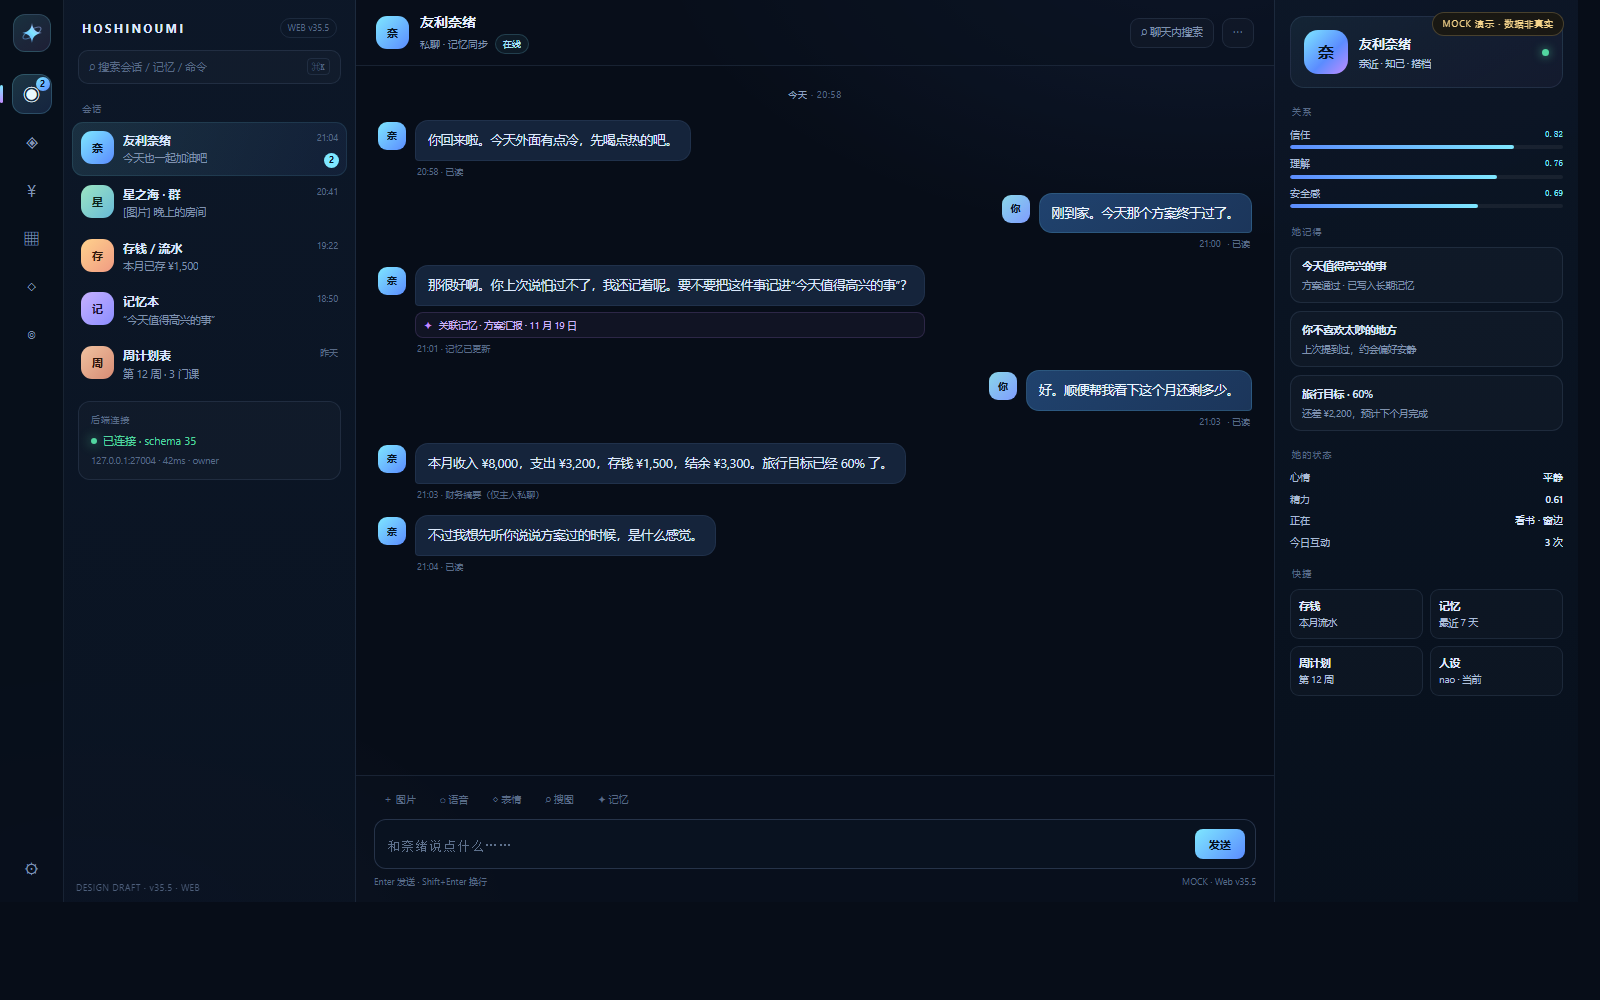
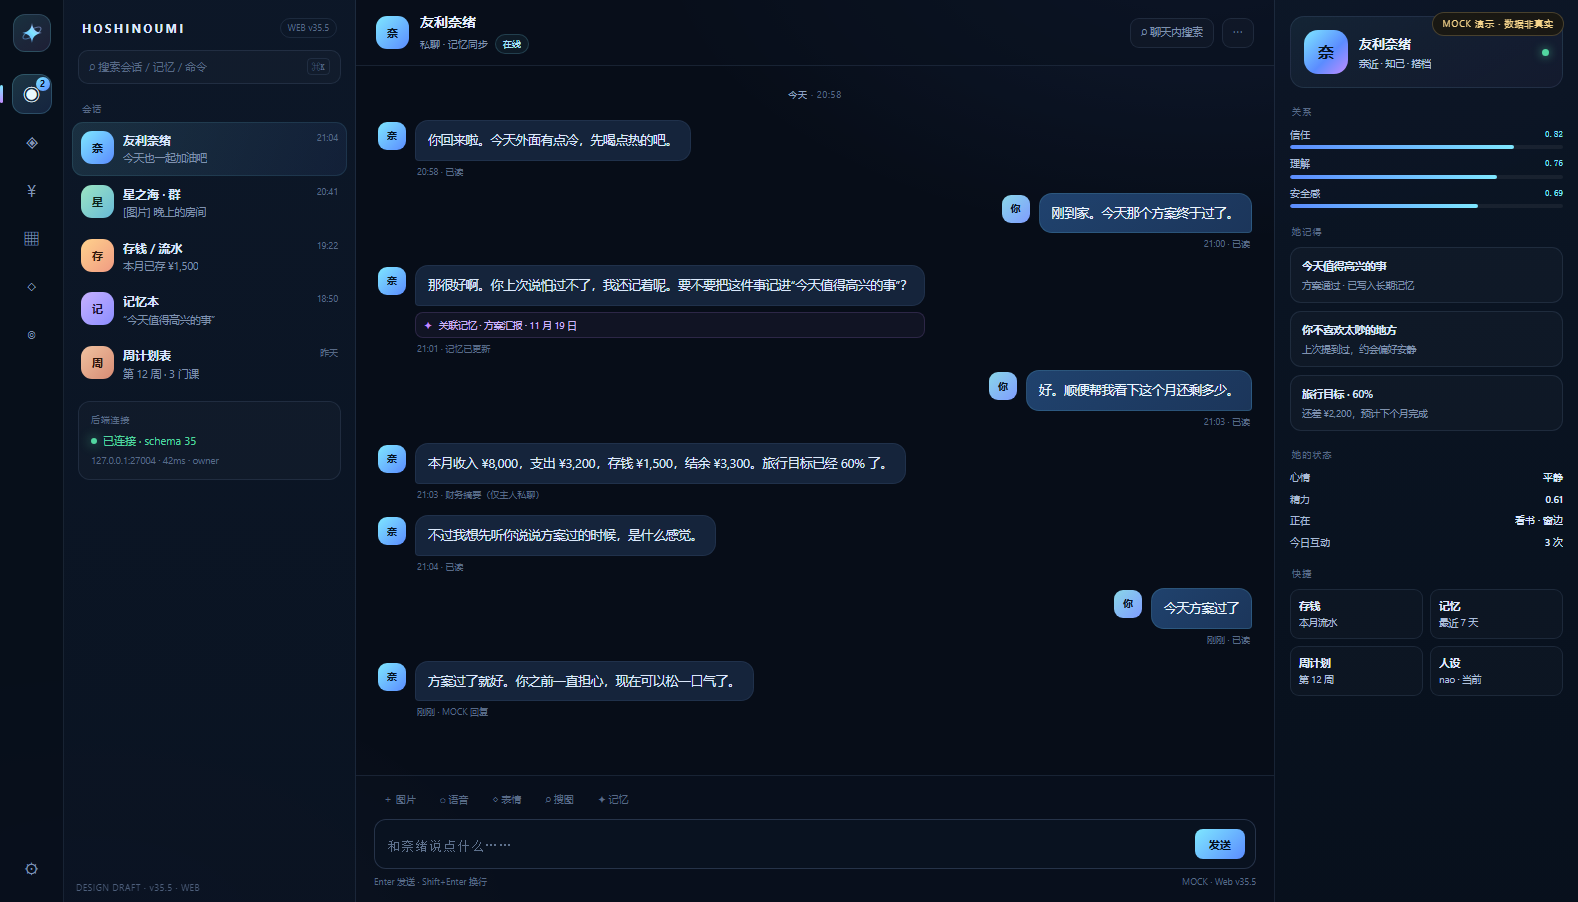
feat(v35.5): Web 演示可交互

diff --git a/docs/design/v35/web/demo.js b/docs/design/v35/web/demo.js
@@ -1,0 +1,177 @@
+// Hoshinoumi Web v35.5 · MOCK 交互演示（无后端）
+(() => {
+  const CHATS = {
+    nao: { name: '友利奈绪', sub: '私聊 · 记忆同步', msgs: [
+      { r: 'bot', t: '你回来啦。今天外面有点冷，先喝点热的吧。', m: '20:58 · 已读' },
+      { r: 'me', t: '刚到家。今天那个方案终于过了。', m: '21:00 · 已读' },
+      { r: 'bot', t: '那很好啊。你上次说怕过不了，我还记着呢。要不要把这件事记进“今天值得高兴的事”？', m: '21:01 · 记忆已更新', mem: '关联记忆 · 方案汇报 · 11 月 19 日' },
+      { r: 'me', t: '好。顺便帮我看下这个月还剩多少。', m: '21:03 · 已读' },
+      { r: 'bot', t: '本月收入 ¥8,000，支出 ¥3,200，存钱 ¥1,500，结余 ¥3,300。旅行目标已经 60% 了。', m: '21:03 · 财务摘要（仅主人私聊）' },
+      { r: 'bot', t: '不过我想先听你说说方案过的时候，是什么感觉。', m: '21:04 · 已读' }
+    ] },
+    group: { name: '星之海 · 群', sub: '群聊 · 4 人', msgs: [
+      { r: 'bot', t: '[图片] 晚上的房间。窗边那盏灯还是没修。', m: '20:41 · 群聊' },
+      { r: 'me', t: '明天我去买灯泡。', m: '20:43 · 已读' },
+      { r: 'bot', t: '那我给你留门。别又忘了。', m: '20:44 · 已读' }
+    ] },
+    savings: { name: '存钱 / 流水', sub: '财务 · 仅主人私聊', msgs: [
+      { r: 'bot', t: '本月收入 ¥8,000，支出 ¥3,200，存钱 ¥1,500，结余 ¥3,300。旅行目标 60%。', m: '19:22 · 财务摘要' },
+      { r: 'me', t: '旅行目标还差多少？', m: '19:23 · 已读' },
+      { r: 'bot', t: '还差 ¥2,200。按现在的节奏，下个月能完成。', m: '19:23 · 已读' }
+    ] },
+    memory: { name: '记忆本', sub: '记忆 · 最近 7 天', msgs: [
+      { r: 'bot', t: '今天值得高兴的事：方案终于过了。我已经把它写进长期记忆。', m: '18:50 · 记忆已更新' },
+      { r: 'me', t: '还有别的吗？', m: '18:51 · 已读' },
+      { r: 'bot', t: '你不喜欢太吵的地方；最近在看的书是《十日终焉》。', m: '18:51 · 记忆召回' }
+    ] },
+    weekly: { name: '周计划表', sub: '第 12 周 · 3 门课', msgs: [
+      { r: 'bot', t: '第 12 周：周一 高等数学、周三 大学英语、周五 数据结构。', m: '昨天 · 来自后端' },
+      { r: 'me', t: '周五有考试吗？', m: '昨天 · 已读' },
+      { r: 'bot', t: '没有，周五是最后一节课，之后放假。', m: '昨天 · 已读' }
+    ] }
+  };
+
+  const PAGES = {
+    memory: [['记忆本', '最近 7 天 · 4 条'], ['今天值得高兴的事', '方案通过 · 已写入长期记忆'], ['你不喜欢太吵的地方', '偏好安静 · 来自对话'], ['正在读', '《十日终焉》 · 窗边']],
+    savings: [['总余额', '¥3,300.00'], ['本月收入', '¥8,000'], ['本月支出', '¥3,200'], ['旅行目标', '60% · 还差 ¥2,200']],
+    weekly: [['第 12 周', '3 门课'], ['周一 1-2 节', '高等数学 · 教三 201'], ['周三 3-4 节', '大学英语 · 文科楼 104'], ['周五 5-6 节', '数据结构 · 实验楼 302']],
+    persona: [['当前人设', 'nao · 友利奈绪'], ['风格', '口语 · 简短 · 行动回复'], ['文件', 'prompt / life / supplement / state / voice'], ['状态', '只读预览 · 仅 owner']],
+    relation: [['亲密度', '0.62 · 熟'], ['信任', '0.82'], ['理解', '0.76'], ['最近变化', '+0.020 · 聊天']],
+    settings: [['后端地址', 'http://127.0.0.1:27004'], ['连接状态', '已连接 · schema 35'], ['主人 QQ', '822891053'], ['视觉', '深色 · 动画默认关闭']]
+  };
+  const TITLES = { memory: '记忆', savings: '存钱', weekly: '周计划表', persona: '人设', relation: '关系', settings: '设置' };
+
+  // 注入演示用样式
+  const css = document.createElement('style');
+  css.textContent = `
+    .chat-hide{display:none!important}
+    .page-view{display:none;flex:1;min-height:0;overflow:auto;padding:22px 24px}
+    .page-view.on{display:block}
+    .page-head{display:flex;align-items:center;gap:12px;margin-bottom:16px}
+    .page-head h2{font-size:17px;margin:0;font-weight:650}
+    .page-head p{font-size:10.5px;color:var(--muted);margin:3px 0 0}
+    .back{margin-left:auto;font-size:10px;color:var(--cyan);border:1px solid rgba(126,231,255,.2);border-radius:8px;padding:5px 9px;background:none;cursor:pointer}
+    .pgrid{display:grid;grid-template-columns:1fr 1fr;gap:10px}
+    .pcard2{border:1px solid var(--line);border-radius:12px;background:rgba(255,255,255,.022);padding:12px 13px}
+    .pcard2 h3{font-size:11px;margin:0 0 5px;color:#dbe8fb}
+    .pcard2 p{font-size:10px;line-height:1.6;color:var(--muted);margin:0}
+    .toast{position:fixed;left:50%;bottom:26px;transform:translateX(-50%) translateY(12px);opacity:0;pointer-events:none;z-index:30;transition:.2s;background:rgba(13,23,40,.96);border:1px solid rgba(126,231,255,.22);color:#dbe8fb;font-size:10.5px;border-radius:9px;padding:8px 13px;box-shadow:0 10px 30px rgba(0,0,0,.4)}
+    .toast.on{opacity:1;transform:translateX(-50%) translateY(0)}
+    .typing{color:var(--muted);font-size:10px;padding:3px 4px 8px}
+  `;
+  document.head.appendChild(css);
+
+  const esc = v => String(v ?? '').replace(/[&<>"']/g, c => ({ '&': '&amp;', '<': '&lt;', '>': '&gt;', '"': '&quot;', "'": '&#39;' }[c]));
+  const msgs = document.querySelector('.msgs');
+  const main = document.querySelector('.main');
+  const composer = document.querySelector('.composer');
+  const top = document.querySelector('.top');
+  const nameEl = top.querySelector('.nm');
+  const subEl = top.querySelector('.sub');
+
+  const pageView = document.createElement('div');
+  pageView.className = 'page-view';
+  main.appendChild(pageView);
+
+  function toast(msg) {
+    let t = document.querySelector('.toast');
+    if (!t) { t = document.createElement('div'); t.className = 'toast'; document.body.appendChild(t); }
+    t.textContent = msg; t.classList.add('on');
+    clearTimeout(window.__toast); window.__toast = setTimeout(() => t.classList.remove('on'), 1400);
+  }
+
+  function msgHtml(x) {
+    return '<div class="msg ' + (x.r === 'me' ? 'me' : '') + '">' +
+      (x.r === 'me' ? '' : '<div class="avatar">奈</div>') +
+      '<div><div class="bubble">' + esc(x.t) + '</div>' +
+      (x.mem ? '<div class="memchip"><span class="i">✦</span> ' + esc(x.mem) + '</div>' : '') +
+      '<div class="meta">' + esc(x.m) + '</div></div>' +
+      (x.r === 'me' ? '<div class="avatar" style="background:linear-gradient(135deg,#8ad7e8,#7f9cff);color:#071322">你</div>' : '') + '</div>';
+  }
+
+  function showChat() {
+    [top, msgs, composer].forEach(x => x.classList.remove('chat-hide'));
+    pageView.classList.remove('on');
+    document.querySelectorAll('.rnav').forEach(x => x.classList.toggle('on', x.dataset.page === 'chat'));
+  }
+
+  function renderChat(id) {
+    const c = CHATS[id] || CHATS.nao;
+    nameEl.textContent = c.name;
+    subEl.innerHTML = esc(c.sub) + ' <span class="pill">在线</span>';
+    msgs.innerHTML = '<div class="day"><b>今天</b> · 20:58</div>' + c.msgs.map(msgHtml).join('');
+    document.querySelectorAll('.conv').forEach(x => x.classList.toggle('on', x.dataset.conv === id));
+    showChat();
+    msgs.scrollTop = msgs.scrollHeight;
+  }
+
+  const convIds = ['nao', 'group', 'savings', 'memory', 'weekly'];
+  document.querySelectorAll('.conv').forEach((x, i) => {
+    x.dataset.conv = convIds[i] || 'nao';
+    x.addEventListener('click', () => { renderChat(x.dataset.conv); x.querySelector('.unread')?.remove(); });
+  });
+
+  function append(role, text, meta) {
+    msgs.insertAdjacentHTML('beforeend', msgHtml({ r: role, t: text, m: meta || '刚刚 · MOCK' }));
+    msgs.scrollTop = msgs.scrollHeight;
+  }
+
+  function send() {
+    const el = document.querySelector('.composer textarea');
+    const text = el.value.trim();
+    if (!text) { toast('先输入一点内容'); return; }
+    el.value = '';
+    append('me', text, '刚刚 · 已读');
+    msgs.insertAdjacentHTML('beforeend', '<div class="typing" id="typing">nao 正在输入…</div>');
+    msgs.scrollTop = msgs.scrollHeight;
+    setTimeout(() => {
+      document.getElementById('typing')?.remove();
+      const t = text.toLowerCase();
+      let reply = '嗯，我在听。你继续说。';
+      if (t.includes('方案') || t.includes('过')) reply = '方案过了就好。你之前一直担心，现在可以松一口气了。';
+      else if (t.includes('钱') || t.includes('余额') || t.includes('存')) reply = '本月结余 ¥3,300，旅行目标 60%。要记一笔吗？';
+      else if (t.includes('冷') || t.includes('天气')) reply = '外面冷的话，回去先喝点热的。别硬撑。';
+      append('bot', reply, '刚刚 · MOCK 回复');
+    }, 520);
+  }
+
+  const input = document.querySelector('.composer textarea');
+  document.querySelector('.send').addEventListener('click', send);
+  input.addEventListener('keydown', e => { if (e.key === 'Enter' && !e.shiftKey) { e.preventDefault(); send(); } });
+
+  document.querySelectorAll('.tool').forEach(b => b.addEventListener('click', () => {
+    const t = b.textContent.trim();
+    input.value = '[' + t + '] ';
+    input.focus();
+    toast(t + '：v35.5 演示占位');
+  }));
+
+  function showPage(name) {
+    const rows = PAGES[name] || [];
+    pageView.innerHTML = '<div class="page-head"><div><h2>' + esc(TITLES[name] || name) +
+      '</h2><p>v35.5 Web 演示 · MOCK 数据</p></div><button class="back" id="backChat">← 返回聊天</button></div>' +
+      '<div class="pgrid">' + rows.map(r => '<div class="pcard2"><h3>' + esc(r[0]) + '</h3><p>' + esc(r[1]) + '</p></div>').join('') + '</div>';
+    [top, msgs, composer].forEach(x => x.classList.add('chat-hide'));
+    pageView.classList.add('on');
+    document.querySelectorAll('.rnav').forEach(x => x.classList.toggle('on', x.dataset.page === name));
+    document.getElementById('backChat').addEventListener('click', () => showChat());
+  }
+
+  const railPages = ['chat', 'memory', 'savings', 'weekly', 'persona', 'relation', 'settings'];
+  document.querySelectorAll('.rnav').forEach((b, i) => {
+    b.dataset.page = railPages[i] || 'chat';
+    b.addEventListener('click', () => {
+      const p = b.dataset.page;
+      if (p === 'chat') { renderChat(document.querySelector('.conv.on')?.dataset.conv || 'nao'); }
+      else showPage(p);
+    });
+  });
+
+  document.querySelectorAll('.q').forEach(q => {
+    const text = q.textContent;
+    const page = text.includes('存钱') ? 'savings' : text.includes('记忆') ? 'memory' : text.includes('周计划') ? 'weekly' : 'persona';
+    q.addEventListener('click', () => showPage(page));
+  });
+
+  renderChat('nao');
+})();

diff --git a/docs/design/v35/web/hoshinoumi-web-v35.5.html b/docs/design/v35/web/hoshinoumi-web-v35.5.html
@@ -318,5 +318,6 @@ button{font:inherit;color:inherit;background:none;border:0;cursor:pointer}
   </aside>
 </div>
 <div class="tagdraft">DESIGN DRAFT · v35.5 · WEB</div>
+<script src="demo.js"></script>
 </body>
 </html>

diff --git a/docs/design/v35/web/DEVELOPMENT.md b/docs/design/v35/web/DEVELOPMENT.md
@@ -98,3 +98,17 @@ docs/design/v35/web/hoshinoumi-web-v35.5.png
 
 所有演示数据为 MOCK。
 '''
+
+## 8. 演示交互
+
+`hoshinoumi-web-v35.5.html` + `demo.js` 是纯前端 MOCK 交互：
+
+- 点击会话切换聊天
+- 输入后发送 / Enter 发送
+- 模拟“正在输入”，返回 MOCK 回复
+- 左侧导航切换记忆/存钱/周计划/人设/关系/设置
+- 媒体按钮插入占位
+- 右侧快捷卡片跳页
+- 页面内“返回聊天”
+
+不需要后端，直接浏览器打开即可。
